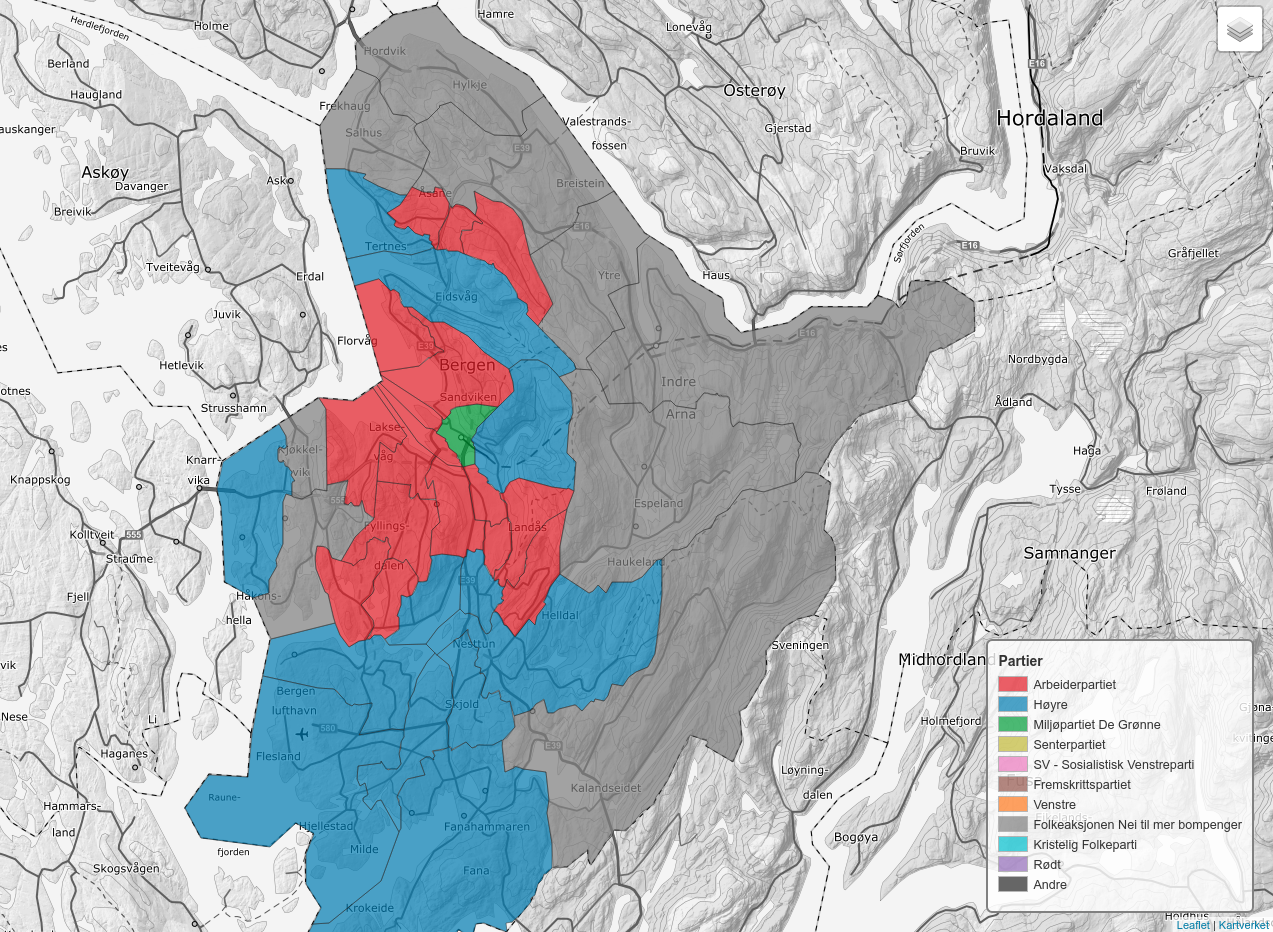
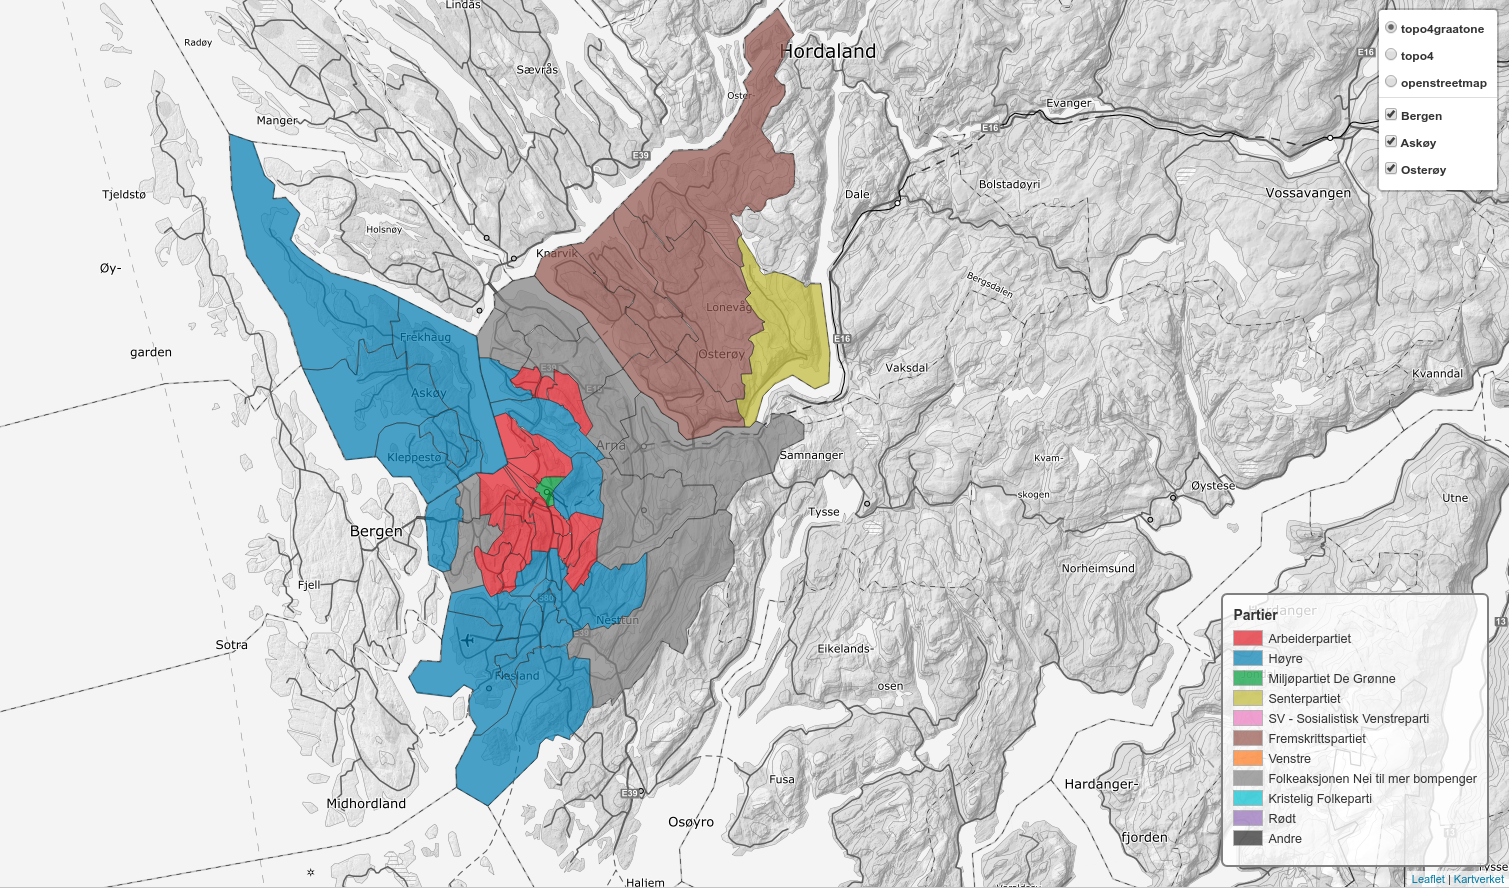
Updated to script to work with raw csv data.

diff --git a/map_partier_i_valgkretser.py b/map_partier_i_valgkretser.py
@@ -3,12 +3,13 @@
 """Create a map showing voting areas where a given party is largest."""
 import pathlib
 import sys
-import pandas as pd
+from slugify import slugify
 from map_basics import (
     produce_map,
     COLORS_PARTY,
     load_json_file,
     create_tool_tip,
+    read_csv_results,
 )
 
 
@@ -32,41 +33,84 @@ def _add_dict_keys(keys, from_dict, others):
                 to_dict[key] = from_dict[key]
 
 
-def get_geojson_data(result_files):
+def extract_data(results, party):
+    """Extract the data we want from the results."""
+    area = {}
+    alle_kommuner = [
+        i for i in results.groupby(['Kommunenummer']).groups.keys()
+    ]
+    for kommune in alle_kommuner:
+        kommune_data = results[results['Kommunenummer'] == kommune].groupby(
+            ['Stemmekretsnummer']
+        )
+        for name, group in kommune_data:
+            idx = group['Oppslutning prosentvis'].idxmax()
+            maxi = results.iloc[idx, :]
+            if maxi['Partinavn'] == party:
+                if kommune not in area:
+                    area[kommune] = {}
+                area[kommune][name] = {
+                    'partinavn': maxi['Partinavn'],
+                    'oppslutning': maxi['Oppslutning prosentvis'],
+                    'krets': maxi['Stemmekretsnavn'],
+                    'kommune_navn': maxi['Kommunenavn']
+                }
+    return area
+
+
+def _same_for_all(kretser):
+    """Check if the result it for the whole municipality."""
+    for _, krets_data in kretser.items():
+        if krets_data['krets'] == 'Hele kommunen':
+            return True, krets_data
+    return False, None
+
+
+def add_to_features(features, kretser, party):
+    """Add data from the areas to the features."""
+    same_all, krets_data = _same_for_all(kretser)
+    for feature in features:
+        krets = str(
+            feature['properties']['valgkretsnummer']
+        ).rjust(4, '0')
+        if not same_all:
+            if krets in kretser:
+                krets_data = kretser[krets]
+            else:
+                krets_data = None
+        if krets_data is not None:
+            feature['properties']['use_this_feature'] = True
+            feature['properties']['partinavn'] = party
+            feature['properties']['oppslutning'] = (
+                '({:4.2f} %)'.format(
+                    krets_data['oppslutning']
+                )
+            )
+
+
+def get_geojson_data(raw_data, parties):
     """Read in result files are produce corresponding geojson data."""
+    results = read_csv_results(raw_data)
     all_geojson_data = []
     andre = {'features': []}
     tooltip = []
-    for result_file in result_files:
-        print('Reading file "{}"'.format(result_file))
-        results = pd.read_json(result_file)
-        # Each file is assumed to only contain results for one party:
-        parti = results['Partinavn'].tolist()[0]
 
+    for party in parties:
+        print('Adding for party "{}"'.format(party))
         new_data = {'features': []}
-        for _, row in results.iterrows():
-            kommune = str(int(row['Kommunenummer']))
-            krets = int(row['Stemmekretsnummer'])
-            krets_navn = row['Stemmekretsnavn']
-            kommune_id = '{}'.format(kommune).rjust(4, '0')
-            geojson_data = _load_geojson_file(kommune_id)
+        area = extract_data(results, party)
+        for kommune, kretser in area.items():
+            geojson_data = _load_geojson_file(kommune)
             _add_dict_keys(('crs', 'type'), geojson_data, (new_data, andre))
-
+            add_to_features(geojson_data['features'], kretser, party)
             for feature in geojson_data['features']:
-                nummer = feature['properties']['valgkretsnummer']
-                if krets_navn == 'Hele kommunen' or nummer == krets:
-                    feature['properties']['partinavn'] = parti
-                    feature['properties']['oppslutning'] = (
-                        '({:4.2f} %)'.format(
-                            row['Oppslutning prosentvis']
-                        )
-                    )
-                    if parti in COLORS_PARTY:
+                if 'use_this_feature' in feature['properties']:
+                    if party in COLORS_PARTY:
                         new_data['features'].append(feature)
                     else:
                         andre['features'].append(feature)
-        if new_data['features'] and parti in COLORS_PARTY:
-            all_geojson_data.append((parti, new_data))
+        if new_data['features'] and party in COLORS_PARTY:
+            all_geojson_data.append((party, new_data))
             tooltip.append(
                 create_tool_tip(
                     ('valgkretsnavn', 'partinavn', 'oppslutning'),
@@ -91,16 +135,15 @@ def get_geojson_data(result_files):
     return all_geojson_data, map_settings
 
 
-def main(result_files):
+def main(raw_data, parties):
     """Read input files and create the map."""
-    geojson_data, map_settings = get_geojson_data(result_files)
-    if len(result_files) == 1:
-        filename = pathlib.Path(result_files[0]).stem
-        out = 'valgkretser-{}.html'.format(filename)
+    geojson_data, map_settings = get_geojson_data(raw_data, parties)
+    if len(parties) == 1:
+        out = 'valgkretser-{}.html'.format(slugify(parties[0]))
     else:
         out = 'map-partier-valgkretser.html'
     produce_map(geojson_data, map_settings, output=out)
 
 
 if __name__ == '__main__':
-    main(sys.argv[1:])
+    main(sys.argv[1], sys.argv[2:])
